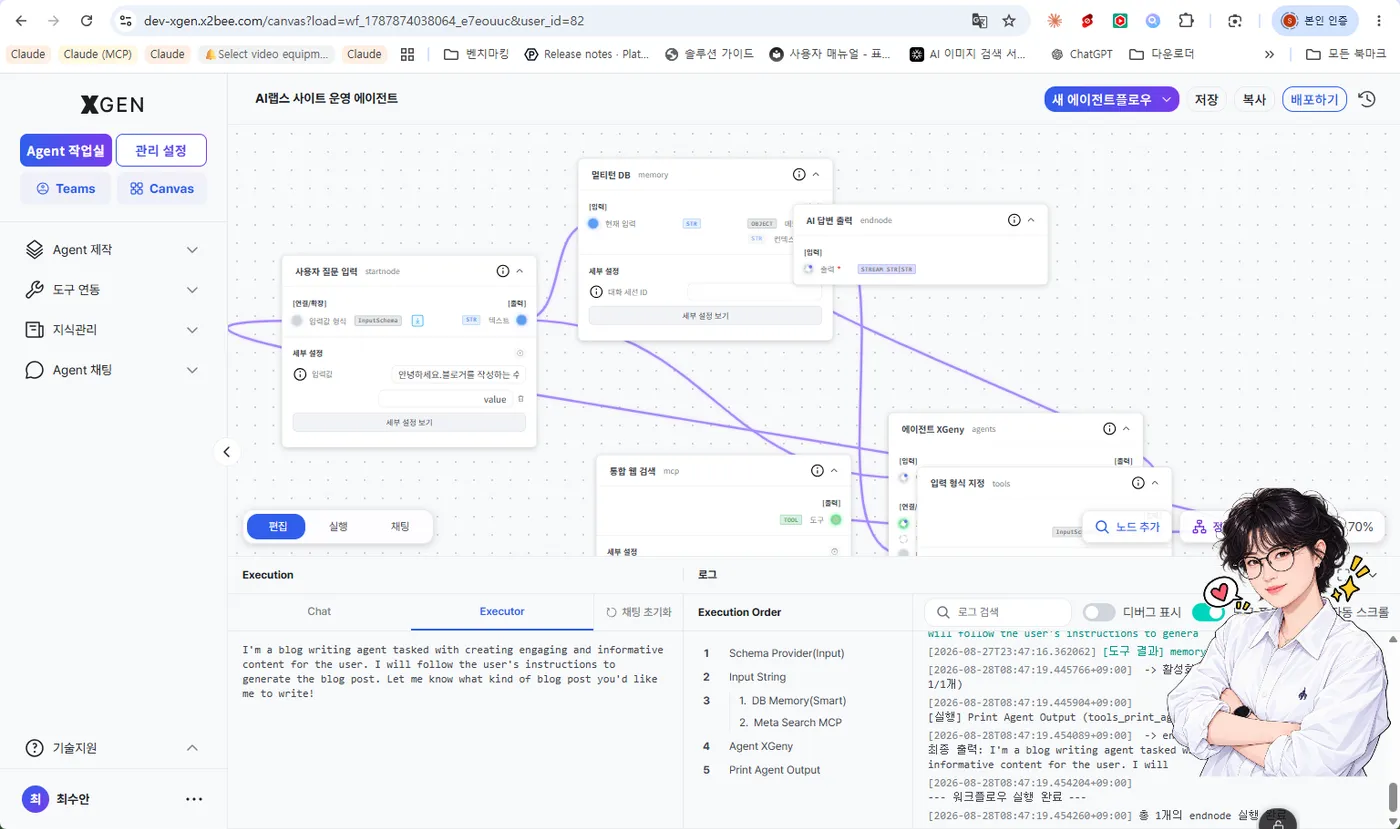
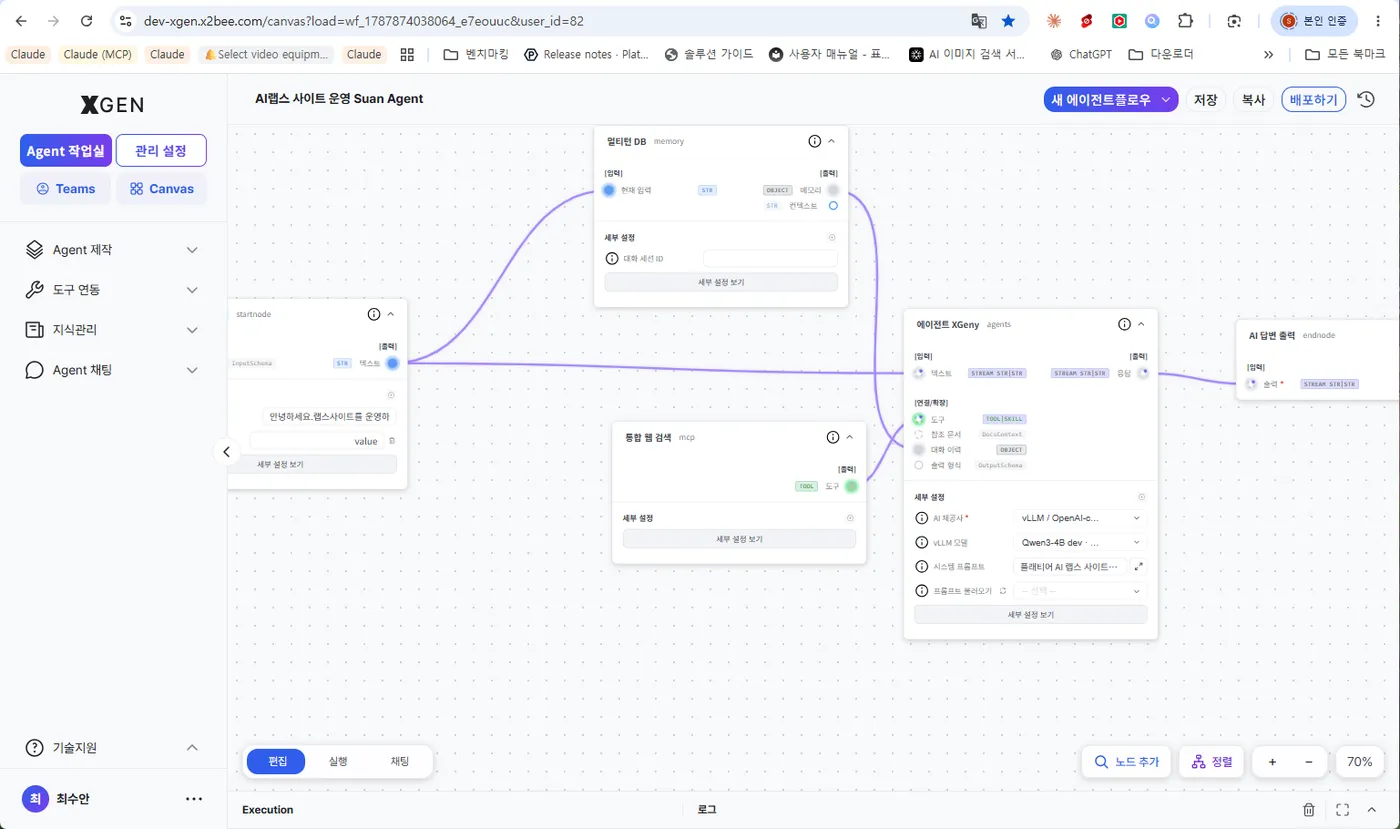
feat(blog): 아바타를 설명하고, 커버를 실습 흐름으로 바꾼다
마지막 대화 화면 오른쪽에 캐릭터가 서 있는데 아무 설명이 없어, 읽는 사람이
"이게 뭐지" 하고 멈춘다. 아바타를 켜면 Agent 가 창 안이 아니라 화면에
상주한다는 것을 두 글에 모두 넣는다 — 앞선 글은 왜 그렇게 두는지, 설치
가이드는 어떻게 켜는지.

커버는 커넥터와 업무환경을 묶은 개념도였는데, 그건 앞선 글이 맡는 그림이다.
이 글은 실습편이므로 여섯 단계와 그 끝(내 화면에서 일하는 Agent)을 그린다.

XGeny 가 만든 워크플로우 화면을 노드가 읽히는 것으로 바꾼다. 이전 캡처는
실행 로그 패널이 절반을 덮어 정작 워크플로우가 안 보였다.

diff --git a/frontend/content/blog/en/xgen-dex-install-guide.md b/frontend/content/blog/en/xgen-dex-install-guide.md
@@ -84,11 +84,11 @@ Describe what you want — for example, "build me an agent that writes blog arti
 
 *Describe the agent you want*
 
-Run it as-is and refine from there. The execution log shows which node ran in what order; once it behaves, give it a name and save.
+You get a workflow wiring input, conversation memory, web search, the agent, and output. Run it as-is, add nodes or change settings to refine it, then give it a name and save.
 
-![A generated workflow connecting user input, multi-turn memory, web search, the XGeny agent, and output, with the execution order log](/connector/19-xgeny-flow.webp)
+![A canvas with user input, multi-turn memory, web search, the XGeny agent, and output nodes wired together](/connector/19-xgeny-flow.webp)
 
-*The workflow XGeny built, and its run log*
+*The workflow XGeny built*
 
 ## 4. Connect it to your PC and create a working folder
 
@@ -135,6 +135,14 @@ MCP runs MCP servers on your PC so the agent in the selected session can use tho
 ## 6. Hand it work
 
 The agent you built now appears in the DeX agent list on the left. Pick it and the conversation starts.
+
+One more thing first. Turn on the avatar under Avatar settings and the agent shows up as **a character floating on your screen**. Upload a photo (png/jpg) or a Live2D/Spine model, scale it with the wheel, and drag it where you want it.
+
+![The avatar settings screen with the feature on and the selected avatar floating on the desktop](/connector/15-avatar-overlay.webp)
+
+*Turn the avatar on and the agent lives on your desktop*
+
+Minimize the window and the avatar stays. You do not have to find and open the app each time — you hand it work the way you would ask a colleague at the next desk. That is the figure on the right of the conversation screen below.
 
 Hand it outcomes, not commands. Below, it was asked to find and summarize the most-read press coverage of on-premise B2B agent platforms from the past month.
 

diff --git a/frontend/content/blog/en/xgen-connector-preview.md b/frontend/content/blog/en/xgen-connector-preview.md
@@ -182,6 +182,20 @@ That way a company can manage agents and key assets centrally while connecting t
 
 ---
 
+## The agent lives on your desktop
+
+Work tools need a window opened before you can use them. Find the app, launch it, open a chat, and only then say what you want. Those few steps are what send people back to "I'll just do it myself."
+
+DeX can put the agent on screen as **a floating avatar**. Upload a photo or a Live2D/Spine model to give it a look, set its size and position, and it stays there even when you minimize the window.
+
+![The avatar settings screen with the feature on and the selected avatar floating on the desktop](/connector/15-avatar-overlay.webp)
+
+*Turn the avatar on and the agent lives on your desktop*
+
+This is not decoration. It makes the agent **something beside you rather than something you go and open**. It is also the simplest way to show, on screen, that an agent managed on the server has actually taken up residence in the user's working environment.
+
+---
+
 ## An enterprise connector needs control alongside it
 
 Once AI can reach a PC and enterprise data, one thing has to be considered with it.
